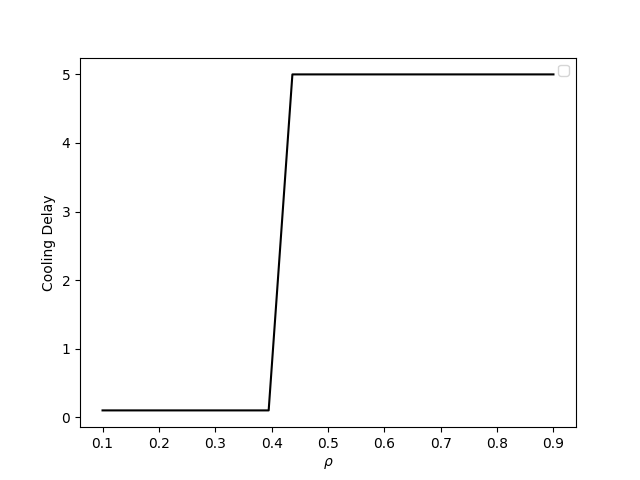
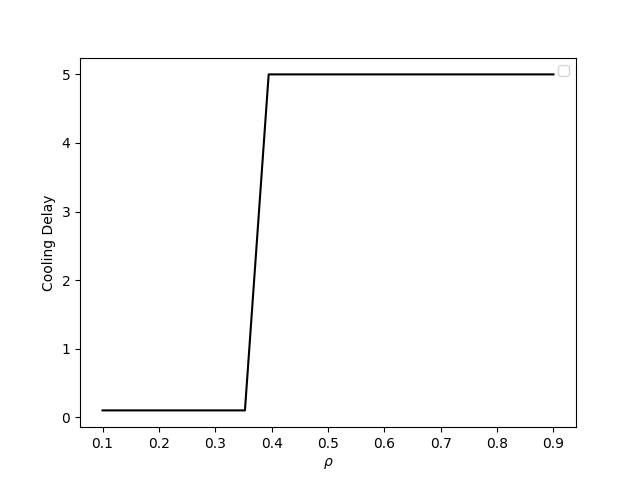
update find best delay

Changed region(s): [[0.375, 0.4375, 0.4375, 0.875], [0.4062, 0.1562, 0.4688, 0.5]]

diff --git a/find_best_delay.py b/find_best_delay.py
@@ -3,10 +3,10 @@ Find best cooling delay for a given set of parameters and utilization factor.
 """
 import matplotlib.pyplot as plt
 import numpy as np
+from tqdm import tqdm
 
 from run_one_calc_vs_sim import calc_moments_by_mean_and_coev, run_calculation
 from utils import read_parameters_from_yaml
-from tqdm import tqdm
 
 
 def calc_wait_cost(w1: float, wait_cost: float,) -> float:
@@ -97,10 +97,15 @@ def run(qp, wait_cost=1.0, server_cost=10.0, wait_cost_calc_func=calc_wait_cost)
 if __name__ == "__main__":
 
     base_qp = read_parameters_from_yaml("base_parameters.yaml")
+
+    # only cooling for simplification
+    base_qp['warmup']['mean']['base'] = 0.1
+    base_qp['cooling']['mean']['base'] = 5.0
+
     rhos, best_delay, best_cost, best_server, best_wait = run(
         base_qp, base_qp['wait_cost'], base_qp['server_cost'], wait_cost_calc_func=calc_no_linear_wait_cost)
 
-    for y_label, save_path, y_data in zip(["Cooling Delay", "Total Cost", "Server Cost", 'Wait Cost"'],
+    for y_label, save_path, y_data in zip(["Cooling Delay", "Total Cost", "Server Cost", 'Wait Cost'],
                                           ["best_delays", "best_total_costs",
                                               "best_server_costs", 'best_wait_costs'],
                                           [best_delay, best_cost, best_server, best_wait]):
